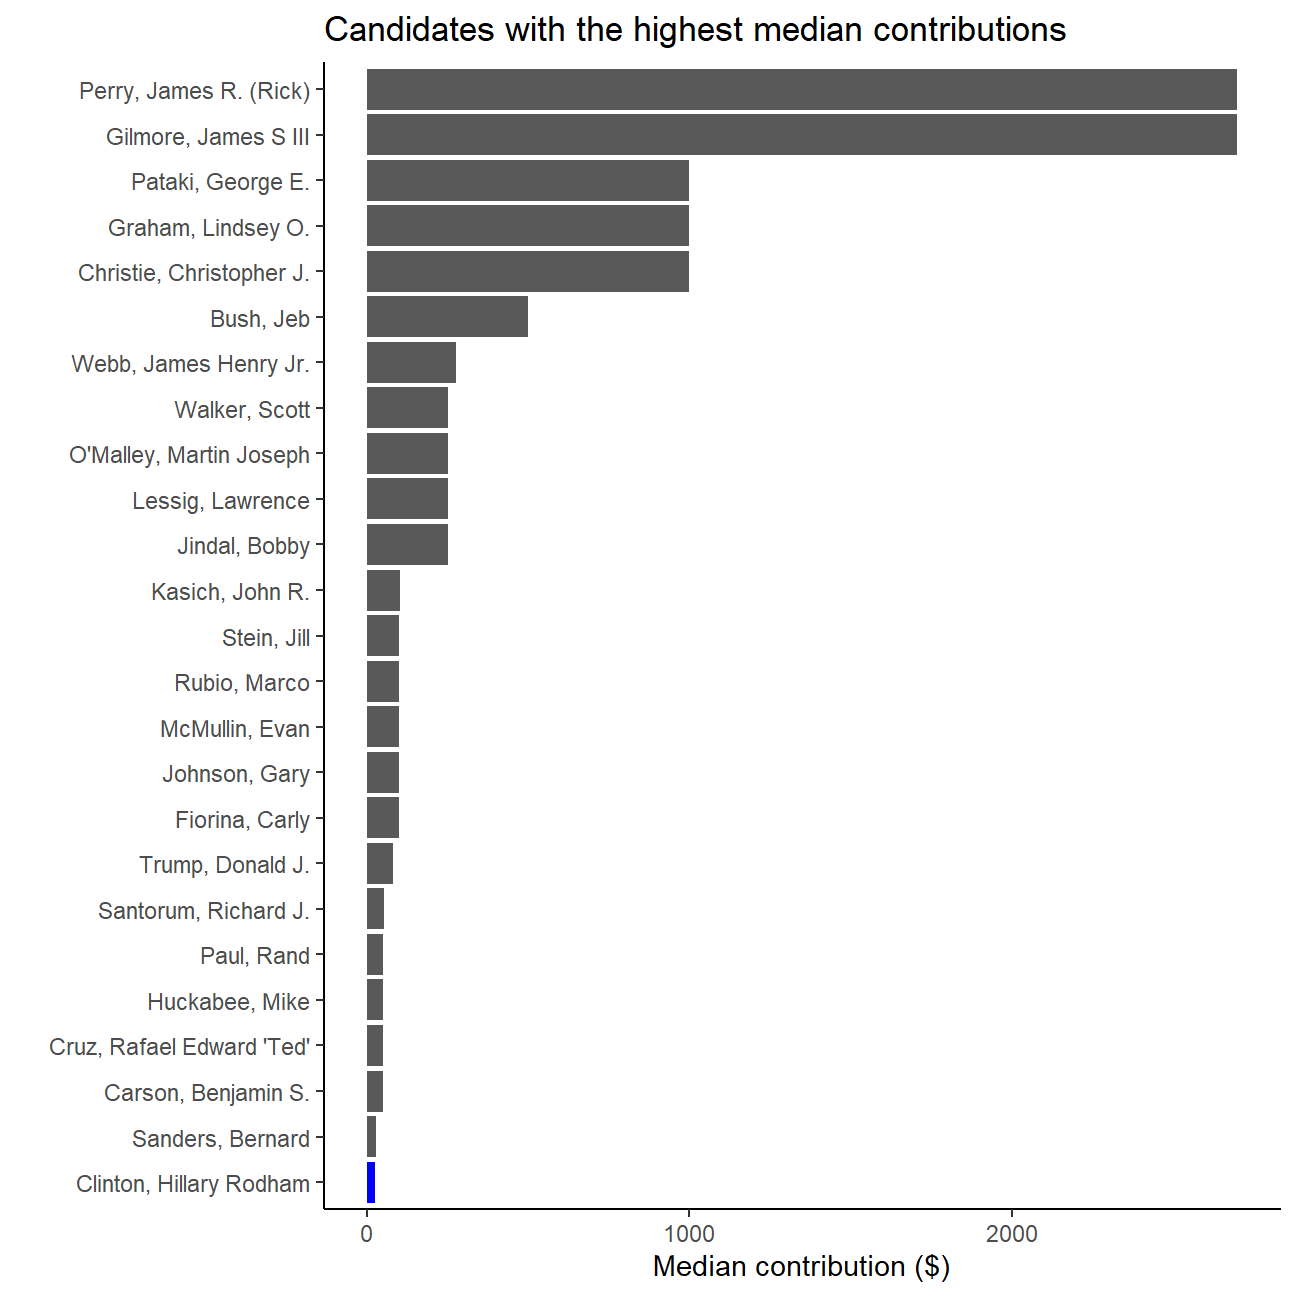
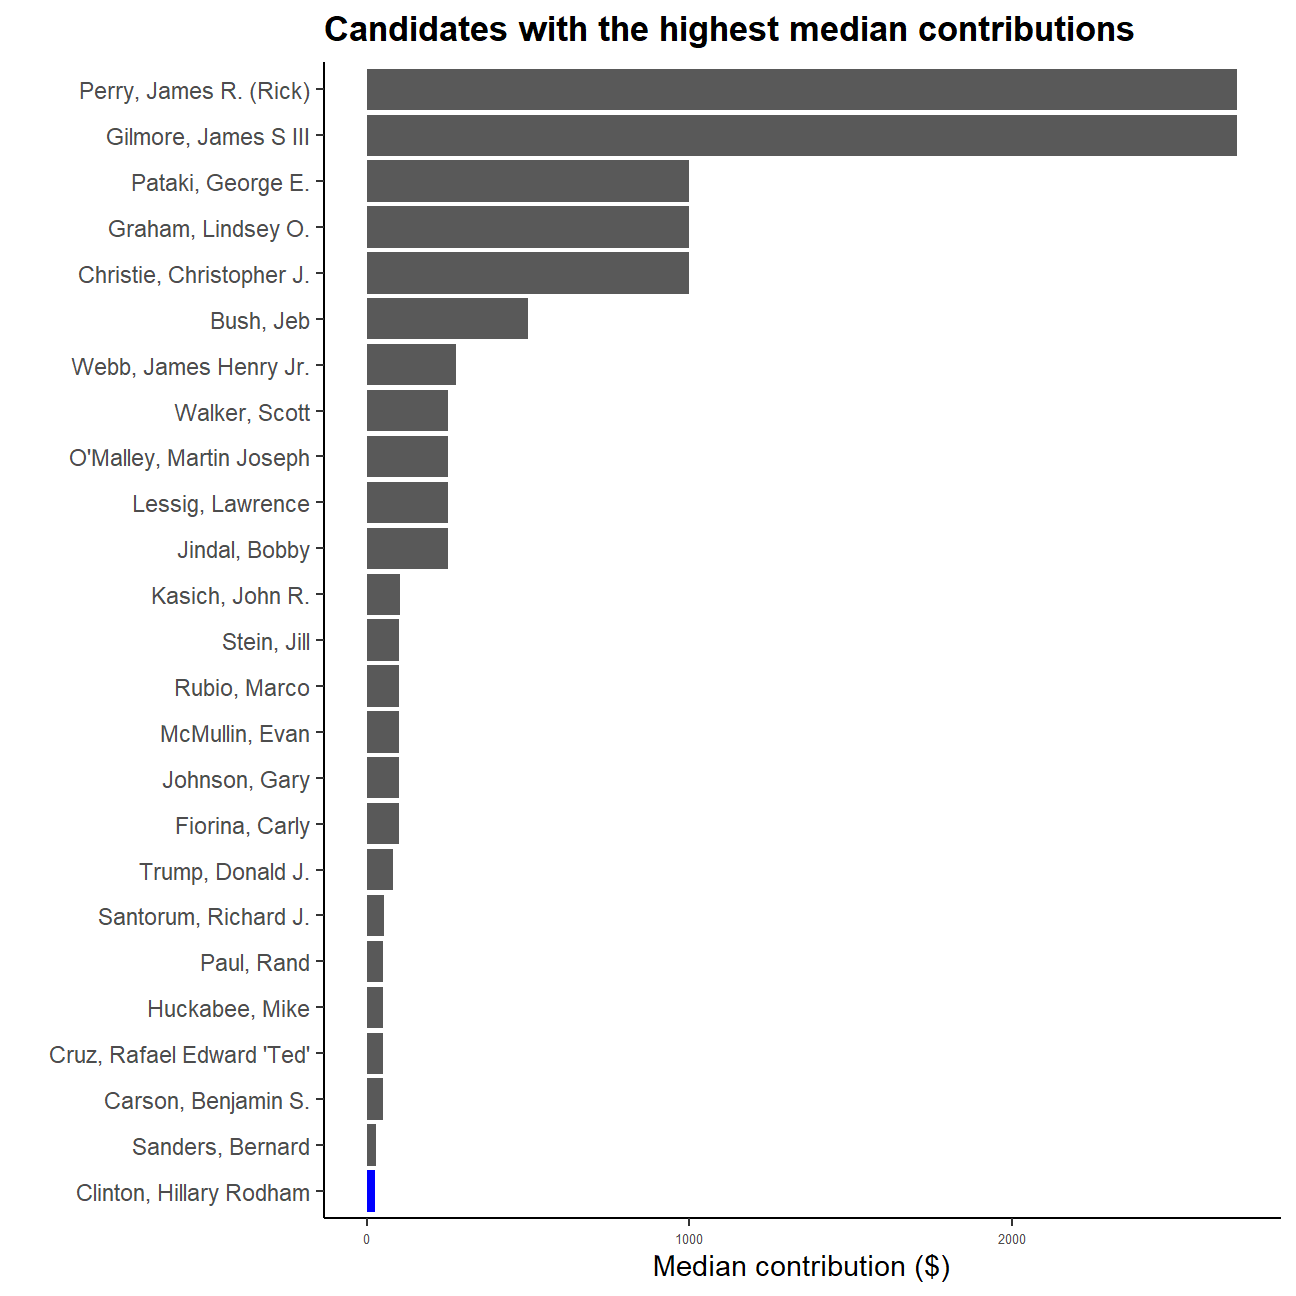
updating statistics page

diff --git a/public/blogs/blog5/index.html b/public/blogs/blog5/index.html
@@ -102,11 +102,11 @@ total_contrb&lt;-CA_contributors_2016 %&gt;%
        y=&quot;&quot;)+
   theme_classic()+
   scale_fill_manual(values = c(&#39;#595959&#39;, &#39;blue&#39;))+
-  theme(legend.position = &#39;none&#39;)+
+  theme(legend.position = &#39;none&#39;,axis.text.x=element_text(size=5))+
      NULL
   
 total_contrb</code></pre>
-<p><img src="/blogs/blog5_files/figure-html/unnamed-chunk-1-1.png" width="648" style="display: block; margin: auto;" /></p>
+<p><img src="/blogs/blog5_files/figure-html/unnamed-chunk-1-1.png" width="200%" style="display: block; margin: auto;" /></p>
 <div id="top-10-candidates-with-highest-average-donation" class="section level1">
 <h1>Top 10 candidates with highest average donation</h1>
 <pre class="r"><code>mean_contrb&lt;-CA_contributors_2016 %&gt;% 
@@ -122,7 +122,7 @@ total_contrb</code></pre>
   NULL
 
 mean_contrb</code></pre>
-<p><img src="/blogs/blog5_files/figure-html/unnamed-chunk-2-1.png" width="648" style="display: block; margin: auto;" /></p>
+<p><img src="/blogs/blog5_files/figure-html/unnamed-chunk-2-1.png" width="200%" style="display: block; margin: auto;" /></p>
 <pre class="r"><code># What was the median contribution?
 median_contrb&lt;-CA_contributors_2016 %&gt;% 
   group_by(cand_nm) %&gt;% 
@@ -135,19 +135,19 @@ median_contrb&lt;-CA_contributors_2016 %&gt;%
        y=&quot;&quot;)+
   theme_classic()+
     scale_fill_manual(values = c(&#39;#595959&#39;, &#39;blue&#39;))+
-    theme(legend.position = &quot;none&quot;)+
+    theme(legend.position = &quot;none&quot;,axis.text.x=element_text(size=5),
+      plot.title=element_text(face=&quot;bold&quot;))+
            NULL
 
 median_contrb</code></pre>
-<p><img src="/blogs/blog5_files/figure-html/unnamed-chunk-3-1.png" width="648" style="display: block; margin: auto;" /></p>
+<p><img src="/blogs/blog5_files/figure-html/unnamed-chunk-3-1.png" width="200%" style="display: block; margin: auto;" /></p>
 <pre class="r"><code>library(patchwork)
 
 patchwork&lt;-total_contrb + median_contrb
 patchwork +
   plot_annotation(title = &#39;The candidate with the highest contribution has the lowest median contribution!&#39;,
                   theme = theme(plot.title = element_text(size = 18))) </code></pre>
-<p><img src="/blogs/blog5_files/figure-html/unnamed-chunk-4-1.png" width="648" style="display: block; margin: auto;" /></p>
-<pre class="r"><code># Challenge 2 What were the top 10 cities in terms of total_contribution for each of the two candidates </code></pre>
+<p><img src="/blogs/blog5_files/figure-html/unnamed-chunk-4-1.png" width="200%" style="display: block; margin: auto;" /></p>
 <pre class="r"><code>ZIPcodes = vroom::vroom(here::here(&quot;data&quot;,&quot;zip_code_database.csv&quot;))
 CA_contributors_join &lt;- merge(CA_contributors_2016,ZIPcodes, by = &quot;zip&quot;)
 CA_contributors_join_cleaned &lt;- CA_contributors_join %&gt;%
@@ -174,6 +174,7 @@ Clinton_plot&lt;-ggplot(Clinton, mapping = aes(x = total, y = reorder(primary_ci
     y= &quot;&quot; ,
     title = &quot;Clinton, Hillary Rodham&quot;) + 
   scale_x_continuous(labels=scales::dollar) +
+  theme(axis.text.x=element_text(size=5))+
   NULL
 
 Trump_plot&lt;-ggplot(Trump, mapping = aes(x = total, y = reorder(primary_city,total))) +
@@ -183,11 +184,12 @@ Trump_plot&lt;-ggplot(Trump, mapping = aes(x = total, y = reorder(primary_city,t
     y= &quot;&quot; ,
     title = &quot;Trump, Donald J.&quot;) + 
   scale_x_continuous(labels=scales::dollar) +
+  theme(axis.text.x=element_text(size=5))+
   NULL
 
 patchwork_cand&lt;-Clinton_plot+Trump_plot
 patchwork_cand+plot_annotation(title=&quot;Which states contributed the most?&quot;)</code></pre>
-<p><img src="/blogs/blog5_files/figure-html/unnamed-chunk-5-1.png" width="648" style="display: block; margin: auto;" /></p>
+<p><img src="/blogs/blog5_files/figure-html/unnamed-chunk-4-2.png" width="200%" style="display: block; margin: auto;" /></p>
 </div>
 
                         </div>
@@ -203,13 +205,9 @@ patchwork_cand+plot_annotation(title=&quot;Which states contributed the most?&qu
         <div class="inner">
             <ul class="icons">
                 
-                    <li><a href="https://www.twitter.com" class="icon alt fa-twitter" target="_blank"><span class="label">Twitter</span></a></li>
-                
                     <li><a href="https://www.facebook.com" class="icon alt fa-facebook" target="_blank"><span class="label">Facebook</span></a></li>
                 
-                    <li><a href="https://www.instagram.com" class="icon alt fa-instagram" target="_blank"><span class="label">Instagram</span></a></li>
-                
-                    <li><a href="https://www.github.com" class="icon alt fa-github" target="_blank"><span class="label">GitHub</span></a></li>
+                    <li><a href="https://github.com/sethidisha18/my_website" class="icon alt fa-github" target="_blank"><span class="label">GitHub</span></a></li>
                 
                     <li><a href="https://www.linkedin.com/in/disha-sethi/" class="icon alt fa-linkedin" target="_blank"><span class="label">LinkedIn</span></a></li>
                 

diff --git a/content/blogs/blog5.html b/content/blogs/blog5.html
@@ -32,11 +32,11 @@ total_contrb&lt;-CA_contributors_2016 %&gt;%
        y=&quot;&quot;)+
   theme_classic()+
   scale_fill_manual(values = c(&#39;#595959&#39;, &#39;blue&#39;))+
-  theme(legend.position = &#39;none&#39;)+
+  theme(legend.position = &#39;none&#39;,axis.text.x=element_text(size=5))+
      NULL
   
 total_contrb</code></pre>
-<p><img src="/blogs/blog5_files/figure-html/unnamed-chunk-1-1.png" width="648" style="display: block; margin: auto;" /></p>
+<p><img src="/blogs/blog5_files/figure-html/unnamed-chunk-1-1.png" width="200%" style="display: block; margin: auto;" /></p>
 <div id="top-10-candidates-with-highest-average-donation" class="section level1">
 <h1>Top 10 candidates with highest average donation</h1>
 <pre class="r"><code>mean_contrb&lt;-CA_contributors_2016 %&gt;% 
@@ -52,7 +52,7 @@ total_contrb</code></pre>
   NULL
 
 mean_contrb</code></pre>
-<p><img src="/blogs/blog5_files/figure-html/unnamed-chunk-2-1.png" width="648" style="display: block; margin: auto;" /></p>
+<p><img src="/blogs/blog5_files/figure-html/unnamed-chunk-2-1.png" width="200%" style="display: block; margin: auto;" /></p>
 <pre class="r"><code># What was the median contribution?
 median_contrb&lt;-CA_contributors_2016 %&gt;% 
   group_by(cand_nm) %&gt;% 
@@ -65,19 +65,19 @@ median_contrb&lt;-CA_contributors_2016 %&gt;%
        y=&quot;&quot;)+
   theme_classic()+
     scale_fill_manual(values = c(&#39;#595959&#39;, &#39;blue&#39;))+
-    theme(legend.position = &quot;none&quot;)+
+    theme(legend.position = &quot;none&quot;,axis.text.x=element_text(size=5),
+      plot.title=element_text(face=&quot;bold&quot;))+
            NULL
 
 median_contrb</code></pre>
-<p><img src="/blogs/blog5_files/figure-html/unnamed-chunk-3-1.png" width="648" style="display: block; margin: auto;" /></p>
+<p><img src="/blogs/blog5_files/figure-html/unnamed-chunk-3-1.png" width="200%" style="display: block; margin: auto;" /></p>
 <pre class="r"><code>library(patchwork)
 
 patchwork&lt;-total_contrb + median_contrb
 patchwork +
   plot_annotation(title = &#39;The candidate with the highest contribution has the lowest median contribution!&#39;,
                   theme = theme(plot.title = element_text(size = 18))) </code></pre>
-<p><img src="/blogs/blog5_files/figure-html/unnamed-chunk-4-1.png" width="648" style="display: block; margin: auto;" /></p>
-<pre class="r"><code># Challenge 2 What were the top 10 cities in terms of total_contribution for each of the two candidates </code></pre>
+<p><img src="/blogs/blog5_files/figure-html/unnamed-chunk-4-1.png" width="200%" style="display: block; margin: auto;" /></p>
 <pre class="r"><code>ZIPcodes = vroom::vroom(here::here(&quot;data&quot;,&quot;zip_code_database.csv&quot;))
 CA_contributors_join &lt;- merge(CA_contributors_2016,ZIPcodes, by = &quot;zip&quot;)
 CA_contributors_join_cleaned &lt;- CA_contributors_join %&gt;%
@@ -104,6 +104,7 @@ Clinton_plot&lt;-ggplot(Clinton, mapping = aes(x = total, y = reorder(primary_ci
     y= &quot;&quot; ,
     title = &quot;Clinton, Hillary Rodham&quot;) + 
   scale_x_continuous(labels=scales::dollar) +
+  theme(axis.text.x=element_text(size=5))+
   NULL
 
 Trump_plot&lt;-ggplot(Trump, mapping = aes(x = total, y = reorder(primary_city,total))) +
@@ -113,9 +114,10 @@ Trump_plot&lt;-ggplot(Trump, mapping = aes(x = total, y = reorder(primary_city,t
     y= &quot;&quot; ,
     title = &quot;Trump, Donald J.&quot;) + 
   scale_x_continuous(labels=scales::dollar) +
+  theme(axis.text.x=element_text(size=5))+
   NULL
 
 patchwork_cand&lt;-Clinton_plot+Trump_plot
 patchwork_cand+plot_annotation(title=&quot;Which states contributed the most?&quot;)</code></pre>
-<p><img src="/blogs/blog5_files/figure-html/unnamed-chunk-5-1.png" width="648" style="display: block; margin: auto;" /></p>
+<p><img src="/blogs/blog5_files/figure-html/unnamed-chunk-4-2.png" width="200%" style="display: block; margin: auto;" /></p>
 </div>

diff --git a/public/index.html b/public/index.html
@@ -95,7 +95,7 @@
                 <img src="img/pic01.jpg" alt="" />
             </span>
             <header class="major">
-                <h3><a href="/blogs/Ipsum" class="link">Projects</a></h3>
+                <h3><a href="/blogs/Ipsum" class="link">DJIA Stocks</a></h3>
                 <p>A range</p>
             </header>
         </article>
@@ -105,8 +105,8 @@
                 <img src="img/pic02.jpg" alt="" />
             </span>
             <header class="major">
-                <h3><a href="/blogs/blog5" class="link">Statistics</a></h3>
-                <p>Feugiat Amet Tempus</p>
+                <h3><a href="/blogs/blog5" class="link">Campaign 2016</a></h3>
+                <p>A case study into contributors</p>
             </header>
         </article>
         
@@ -214,7 +214,7 @@
                         <span class="icon alt fa-phone"></span>
                         
                         <h3>Phone</h3>
-                        <span>(000)000-0000 x1234</span>
+                        <span>(&#43;44)7394</span>
                         
                     </div>
                 </section>
@@ -248,13 +248,9 @@
         <div class="inner">
             <ul class="icons">
                 
-                    <li><a href="https://www.twitter.com" class="icon alt fa-twitter" target="_blank"><span class="label">Twitter</span></a></li>
-                
                     <li><a href="https://www.facebook.com" class="icon alt fa-facebook" target="_blank"><span class="label">Facebook</span></a></li>
                 
-                    <li><a href="https://www.instagram.com" class="icon alt fa-instagram" target="_blank"><span class="label">Instagram</span></a></li>
-                
-                    <li><a href="https://www.github.com" class="icon alt fa-github" target="_blank"><span class="label">GitHub</span></a></li>
+                    <li><a href="https://github.com/sethidisha18/my_website" class="icon alt fa-github" target="_blank"><span class="label">GitHub</span></a></li>
                 
                     <li><a href="https://www.linkedin.com/in/disha-sethi/" class="icon alt fa-linkedin" target="_blank"><span class="label">LinkedIn</span></a></li>
                 

diff --git a/public/404.html b/public/404.html
@@ -72,7 +72,7 @@
 		<!-- Main -->
 			<div id="main">
 				<div class="inner">
-					<h1>Page couldn&#39;t be found</h1>
+					<h1>Sorry, the page you were looking for couldn&#39;t be found</h1>
 					<p>Please visit <a href="/">this page</a></p>
 				</div>
 			</div>
@@ -84,13 +84,9 @@
         <div class="inner">
             <ul class="icons">
                 
-                    <li><a href="https://www.twitter.com" class="icon alt fa-twitter" target="_blank"><span class="label">Twitter</span></a></li>
-                
                     <li><a href="https://www.facebook.com" class="icon alt fa-facebook" target="_blank"><span class="label">Facebook</span></a></li>
                 
-                    <li><a href="https://www.instagram.com" class="icon alt fa-instagram" target="_blank"><span class="label">Instagram</span></a></li>
-                
-                    <li><a href="https://www.github.com" class="icon alt fa-github" target="_blank"><span class="label">GitHub</span></a></li>
+                    <li><a href="https://github.com/sethidisha18/my_website" class="icon alt fa-github" target="_blank"><span class="label">GitHub</span></a></li>
                 
                     <li><a href="https://www.linkedin.com/in/disha-sethi/" class="icon alt fa-linkedin" target="_blank"><span class="label">LinkedIn</span></a></li>
                 

diff --git a/public/projects/project1/blog5/index.html b/public/projects/project1/blog5/index.html
@@ -203,13 +203,9 @@ patchwork_cand+plot_annotation(title=&quot;Which states contributed the most?&qu
         <div class="inner">
             <ul class="icons">
                 
-                    <li><a href="https://www.twitter.com" class="icon alt fa-twitter" target="_blank"><span class="label">Twitter</span></a></li>
-                
                     <li><a href="https://www.facebook.com" class="icon alt fa-facebook" target="_blank"><span class="label">Facebook</span></a></li>
                 
-                    <li><a href="https://www.instagram.com" class="icon alt fa-instagram" target="_blank"><span class="label">Instagram</span></a></li>
-                
-                    <li><a href="https://www.github.com" class="icon alt fa-github" target="_blank"><span class="label">GitHub</span></a></li>
+                    <li><a href="https://github.com/sethidisha18/my_website" class="icon alt fa-github" target="_blank"><span class="label">GitHub</span></a></li>
                 
                     <li><a href="https://www.linkedin.com/in/disha-sethi/" class="icon alt fa-linkedin" target="_blank"><span class="label">LinkedIn</span></a></li>
                 

diff --git a/public/post/2015-07-23-r-rmarkdown/index.html b/public/post/2015-07-23-r-rmarkdown/index.html
@@ -134,13 +134,9 @@ Figure 1: A fancy pie chart.
         <div class="inner">
             <ul class="icons">
                 
-                    <li><a href="https://www.twitter.com" class="icon alt fa-twitter" target="_blank"><span class="label">Twitter</span></a></li>
-                
                     <li><a href="https://www.facebook.com" class="icon alt fa-facebook" target="_blank"><span class="label">Facebook</span></a></li>
                 
-                    <li><a href="https://www.instagram.com" class="icon alt fa-instagram" target="_blank"><span class="label">Instagram</span></a></li>
-                
-                    <li><a href="https://www.github.com" class="icon alt fa-github" target="_blank"><span class="label">GitHub</span></a></li>
+                    <li><a href="https://github.com/sethidisha18/my_website" class="icon alt fa-github" target="_blank"><span class="label">GitHub</span></a></li>
                 
                     <li><a href="https://www.linkedin.com/in/disha-sethi/" class="icon alt fa-linkedin" target="_blank"><span class="label">LinkedIn</span></a></li>
                 

diff --git a/public/blogs/index.html b/public/blogs/index.html
@@ -185,13 +185,9 @@
         <div class="inner">
             <ul class="icons">
                 
-                    <li><a href="https://www.twitter.com" class="icon alt fa-twitter" target="_blank"><span class="label">Twitter</span></a></li>
-                
                     <li><a href="https://www.facebook.com" class="icon alt fa-facebook" target="_blank"><span class="label">Facebook</span></a></li>
                 
-                    <li><a href="https://www.instagram.com" class="icon alt fa-instagram" target="_blank"><span class="label">Instagram</span></a></li>
-                
-                    <li><a href="https://www.github.com" class="icon alt fa-github" target="_blank"><span class="label">GitHub</span></a></li>
+                    <li><a href="https://github.com/sethidisha18/my_website" class="icon alt fa-github" target="_blank"><span class="label">GitHub</span></a></li>
                 
                     <li><a href="https://www.linkedin.com/in/disha-sethi/" class="icon alt fa-linkedin" target="_blank"><span class="label">LinkedIn</span></a></li>
                 

diff --git a/public/categories/index.html b/public/categories/index.html
@@ -112,13 +112,9 @@
         <div class="inner">
             <ul class="icons">
                 
-                    <li><a href="https://www.twitter.com" class="icon alt fa-twitter" target="_blank"><span class="label">Twitter</span></a></li>
-                
                     <li><a href="https://www.facebook.com" class="icon alt fa-facebook" target="_blank"><span class="label">Facebook</span></a></li>
                 
-                    <li><a href="https://www.instagram.com" class="icon alt fa-instagram" target="_blank"><span class="label">Instagram</span></a></li>
-                
-                    <li><a href="https://www.github.com" class="icon alt fa-github" target="_blank"><span class="label">GitHub</span></a></li>
+                    <li><a href="https://github.com/sethidisha18/my_website" class="icon alt fa-github" target="_blank"><span class="label">GitHub</span></a></li>
                 
                     <li><a href="https://www.linkedin.com/in/disha-sethi/" class="icon alt fa-linkedin" target="_blank"><span class="label">LinkedIn</span></a></li>
                 

diff --git a/public/categories/r/index.html b/public/categories/r/index.html
@@ -112,13 +112,9 @@
         <div class="inner">
             <ul class="icons">
                 
-                    <li><a href="https://www.twitter.com" class="icon alt fa-twitter" target="_blank"><span class="label">Twitter</span></a></li>
-                
                     <li><a href="https://www.facebook.com" class="icon alt fa-facebook" target="_blank"><span class="label">Facebook</span></a></li>
                 
-                    <li><a href="https://www.instagram.com" class="icon alt fa-instagram" target="_blank"><span class="label">Instagram</span></a></li>
-                
-                    <li><a href="https://www.github.com" class="icon alt fa-github" target="_blank"><span class="label">GitHub</span></a></li>
+                    <li><a href="https://github.com/sethidisha18/my_website" class="icon alt fa-github" target="_blank"><span class="label">GitHub</span></a></li>
                 
                     <li><a href="https://www.linkedin.com/in/disha-sethi/" class="icon alt fa-linkedin" target="_blank"><span class="label">LinkedIn</span></a></li>
                 

diff --git a/public/post/index.html b/public/post/index.html
@@ -112,13 +112,9 @@
         <div class="inner">
             <ul class="icons">
                 
-                    <li><a href="https://www.twitter.com" class="icon alt fa-twitter" target="_blank"><span class="label">Twitter</span></a></li>
-                
                     <li><a href="https://www.facebook.com" class="icon alt fa-facebook" target="_blank"><span class="label">Facebook</span></a></li>
                 
-                    <li><a href="https://www.instagram.com" class="icon alt fa-instagram" target="_blank"><span class="label">Instagram</span></a></li>
-                
-                    <li><a href="https://www.github.com" class="icon alt fa-github" target="_blank"><span class="label">GitHub</span></a></li>
+                    <li><a href="https://github.com/sethidisha18/my_website" class="icon alt fa-github" target="_blank"><span class="label">GitHub</span></a></li>
                 
                     <li><a href="https://www.linkedin.com/in/disha-sethi/" class="icon alt fa-linkedin" target="_blank"><span class="label">LinkedIn</span></a></li>
                 

diff --git a/public/projects/index.html b/public/projects/index.html
@@ -112,13 +112,9 @@
         <div class="inner">
             <ul class="icons">
                 
-                    <li><a href="https://www.twitter.com" class="icon alt fa-twitter" target="_blank"><span class="label">Twitter</span></a></li>
-                
                     <li><a href="https://www.facebook.com" class="icon alt fa-facebook" target="_blank"><span class="label">Facebook</span></a></li>
                 
-                    <li><a href="https://www.instagram.com" class="icon alt fa-instagram" target="_blank"><span class="label">Instagram</span></a></li>
-                
-                    <li><a href="https://www.github.com" class="icon alt fa-github" target="_blank"><span class="label">GitHub</span></a></li>
+                    <li><a href="https://github.com/sethidisha18/my_website" class="icon alt fa-github" target="_blank"><span class="label">GitHub</span></a></li>
                 
                     <li><a href="https://www.linkedin.com/in/disha-sethi/" class="icon alt fa-linkedin" target="_blank"><span class="label">LinkedIn</span></a></li>
                 

diff --git a/public/tags/index.html b/public/tags/index.html
@@ -146,13 +146,9 @@
         <div class="inner">
             <ul class="icons">
                 
-                    <li><a href="https://www.twitter.com" class="icon alt fa-twitter" target="_blank"><span class="label">Twitter</span></a></li>
-                
                     <li><a href="https://www.facebook.com" class="icon alt fa-facebook" target="_blank"><span class="label">Facebook</span></a></li>
                 
-                    <li><a href="https://www.instagram.com" class="icon alt fa-instagram" target="_blank"><span class="label">Instagram</span></a></li>
-                
-                    <li><a href="https://www.github.com" class="icon alt fa-github" target="_blank"><span class="label">GitHub</span></a></li>
+                    <li><a href="https://github.com/sethidisha18/my_website" class="icon alt fa-github" target="_blank"><span class="label">GitHub</span></a></li>
                 
                     <li><a href="https://www.linkedin.com/in/disha-sethi/" class="icon alt fa-linkedin" target="_blank"><span class="label">LinkedIn</span></a></li>
                 
